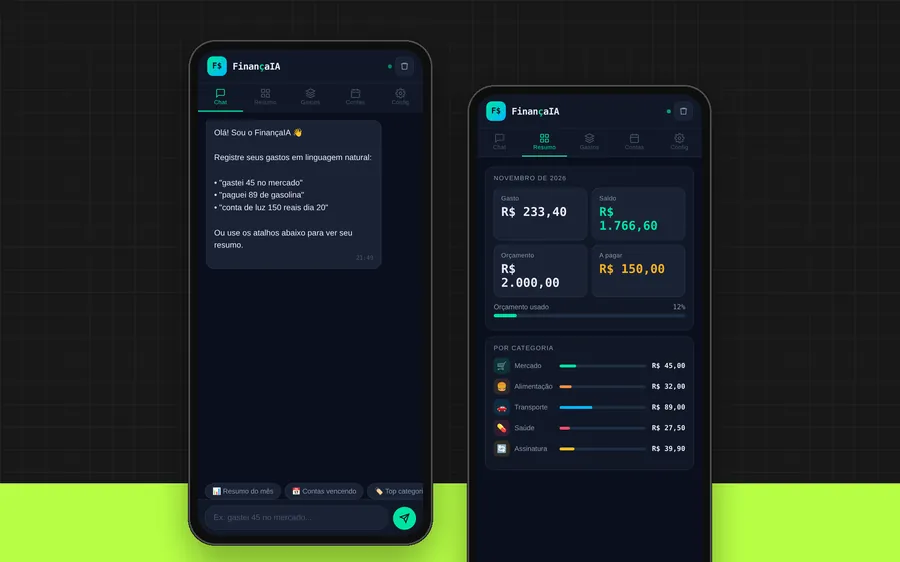
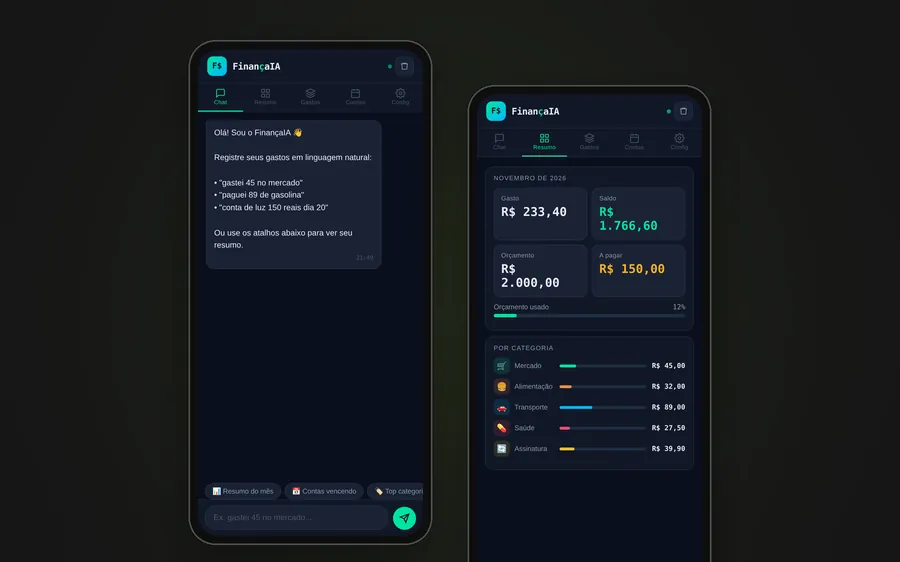
Fundo mais limpo: remove a grade de quadradinhos
- Hero e Contato com fundo liso e uma luz suave no lugar da grade
- Imagens de apresentação (Giovana, FinançaIA, papel timbrado) refeitas sem grade
- Grade removida também do modal, dos placeholders e das ilustrações

Claude-Session: https://claude.ai/code/session_019GX9FJ6gv7M3ProjdDvsAs

Changed region(s): [[0.0, 0.847, 0.5289, 1.0], [0.7778, 0.847, 1.0, 1.0]]

diff --git a/src/components/Illustrations.tsx b/src/components/Illustrations.tsx
@@ -12,10 +12,6 @@ export function DesignBoard({ className = '' }: Props) {
   return (
     <svg viewBox="0 0 400 300" className={className} preserveAspectRatio="xMidYMid slice" role="img" aria-label="Ilustração de um quadro de identidade visual com logotipo, paleta de cores e tipografia">
       <rect width="400" height="300" fill="#E9E6DF" />
-      <g stroke="#101010" strokeOpacity=".06">
-        {Array.from({ length: 14 }).map((_, i) => <line key={`v${i}`} x1={i * 32} y1="0" x2={i * 32} y2="300" />)}
-        {Array.from({ length: 10 }).map((_, i) => <line key={`h${i}`} x1="0" y1={i * 32} x2="400" y2={i * 32} />)}
-      </g>
       {/* cartão do logo */}
       <rect x="40" y="44" width="150" height="150" rx="14" fill="#101010" />
       {[0, 1, 3, 4, 5, 7].map((i) => (
@@ -52,10 +48,6 @@ export function SystemsWindow({ className = '' }: Props) {
   return (
     <svg viewBox="0 0 400 300" className={className} preserveAspectRatio="xMidYMid slice" role="img" aria-label="Ilustração de uma página web em construção, com o código ao lado">
       <rect width="400" height="300" fill="#B7FF45" />
-      <g stroke="#101010" strokeOpacity=".08">
-        {Array.from({ length: 14 }).map((_, i) => <line key={`v${i}`} x1={i * 32} y1="0" x2={i * 32} y2="300" />)}
-        {Array.from({ length: 10 }).map((_, i) => <line key={`h${i}`} x1="0" y1={i * 32} x2="400" y2={i * 32} />)}
-      </g>
       {/* navegador */}
       <rect x="36" y="40" width="250" height="196" rx="12" fill="#101010" />
       <circle cx="54" cy="56" r="4" fill="#F5F3EF" opacity=".35" />

diff --git a/src/sections/Contact.tsx b/src/sections/Contact.tsx
@@ -105,7 +105,7 @@ export function Contact({ onOpenPrivacy }: { onOpenPrivacy: () => void }) {
 
   return (
     <section id="contato" aria-labelledby="contato-title" className="relative overflow-hidden border-t border-paper/10 py-24 md:py-32">
-      <div className="pixel-grid absolute inset-0 -z-10 [mask-image:radial-gradient(ellipse_at_bottom_left,black_20%,transparent_70%)]" aria-hidden="true" />
+      <div className="absolute inset-0 -z-10 bg-[radial-gradient(ellipse_60%_60%_at_0%_100%,rgb(183_255_69/0.06),transparent_70%)]" aria-hidden="true" />
       <div className="container-x grid gap-14 lg:grid-cols-12">
         <div className="reveal lg:col-span-5">
           <p className="eyebrow mb-4 flex items-center gap-2 text-muted">

diff --git a/src/sections/Hero.tsx b/src/sections/Hero.tsx
@@ -15,7 +15,7 @@ export function Hero() {
 
   return (
     <section id="inicio" aria-labelledby="hero-title" className="relative isolate overflow-hidden pt-28 md:pt-36">
-      <div className="pixel-grid absolute inset-0 -z-10 [mask-image:radial-gradient(ellipse_at_top,black_30%,transparent_75%)]" aria-hidden="true" />
+      <div className="absolute inset-0 -z-10 bg-[radial-gradient(ellipse_70%_55%_at_85%_0%,rgb(183_255_69/0.07),transparent_70%),radial-gradient(ellipse_60%_50%_at_0%_100%,rgb(245_243_239/0.04),transparent_70%)]" aria-hidden="true" />
 
       <div className="container-x grid items-end gap-12 pb-16 md:pb-24 lg:grid-cols-12 lg:gap-10">
         <div className="lg:col-span-7">

diff --git a/src/components/Placeholder.tsx b/src/components/Placeholder.tsx
@@ -25,7 +25,6 @@ export function Placeholder({ label, icon: Icon, tone = 'dark', className = '', 
 
   return (
     <div className={`relative isolate overflow-hidden ${tones[tone]} ${className}`} role="img" aria-label={`Espaço reservado${label ? `: ${label}` : ''}`}>
-      <div className={`absolute inset-0 ${tone === 'light' || tone === 'lime' ? 'pixel-grid-light' : 'pixel-grid'}`} aria-hidden="true" />
       <div className="absolute right-4 top-4 grid grid-cols-6 gap-1 opacity-60" aria-hidden="true">
         {cells.map((on, i) => (
           <span key={i} className={`h-2 w-2 ${on ? (tone === 'lime' ? 'bg-ink' : 'bg-lime') : 'bg-current opacity-10'}`} />

diff --git a/src/index.css b/src/index.css
@@ -76,20 +76,6 @@
   }
 }
 
-/* Pixel grid decorativo */
-.pixel-grid {
-  background-image:
-    linear-gradient(to right, rgb(245 243 239 / 0.05) 1px, transparent 1px),
-    linear-gradient(to bottom, rgb(245 243 239 / 0.05) 1px, transparent 1px);
-  background-size: 32px 32px;
-}
-.pixel-grid-light {
-  background-image:
-    linear-gradient(to right, rgb(16 16 16 / 0.06) 1px, transparent 1px),
-    linear-gradient(to bottom, rgb(16 16 16 / 0.06) 1px, transparent 1px);
-  background-size: 32px 32px;
-}
-
 /* Revelação ao rolar (ativada por JS; sem JS o conteúdo fica visível) */
 .js .reveal {
   opacity: 0;

diff --git a/src/components/ProjectModal.tsx b/src/components/ProjectModal.tsx
@@ -101,7 +101,7 @@ export function ProjectModal({ project, onClose }: Props) {
                 )}
               </>
             ) : (
-              <div className="pixel-grid flex h-full w-full flex-col items-center justify-center gap-3 p-10 text-center text-paper/60">
+              <div className="flex h-full w-full flex-col items-center justify-center gap-3 p-10 text-center text-paper/60">
                 <ImageOff className="h-8 w-8" strokeWidth={1.5} aria-hidden="true" />
                 <p className="text-sm">As imagens deste projeto serão publicadas em breve.</p>
               </div>
